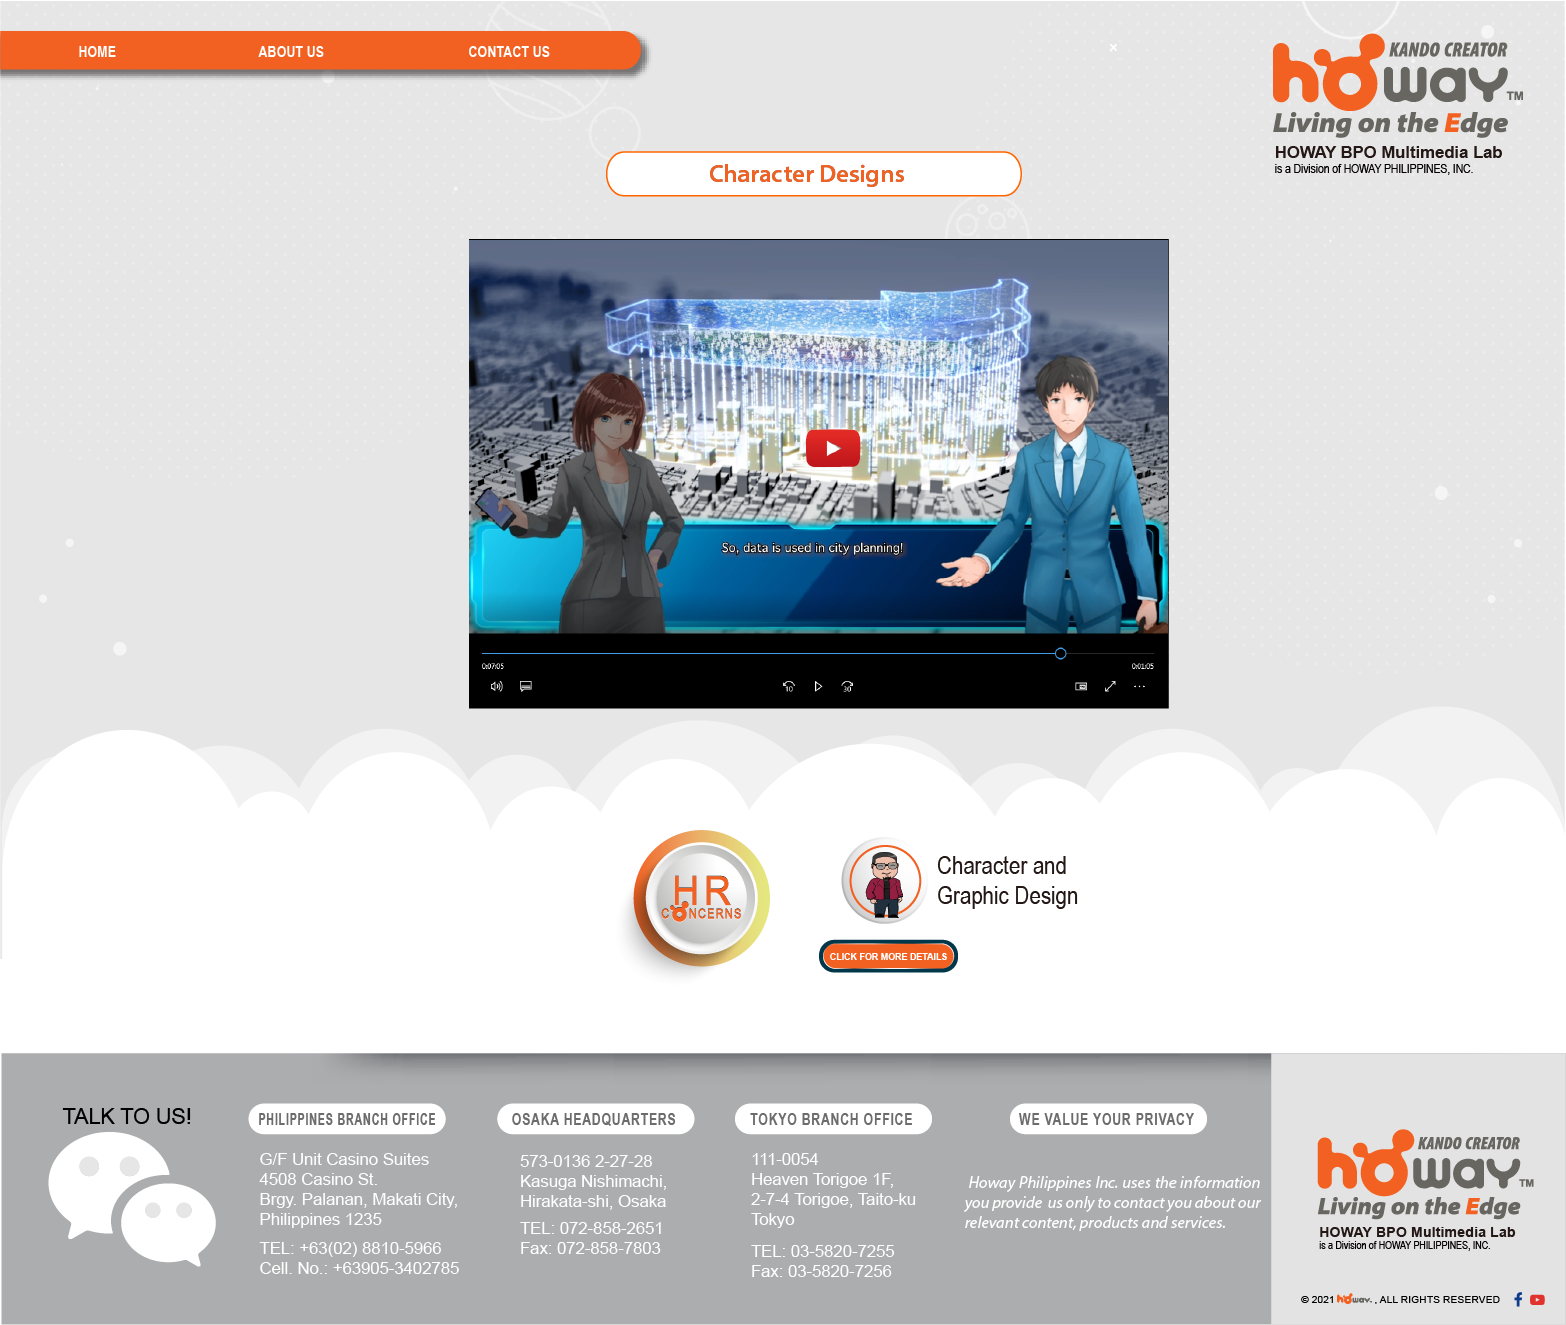
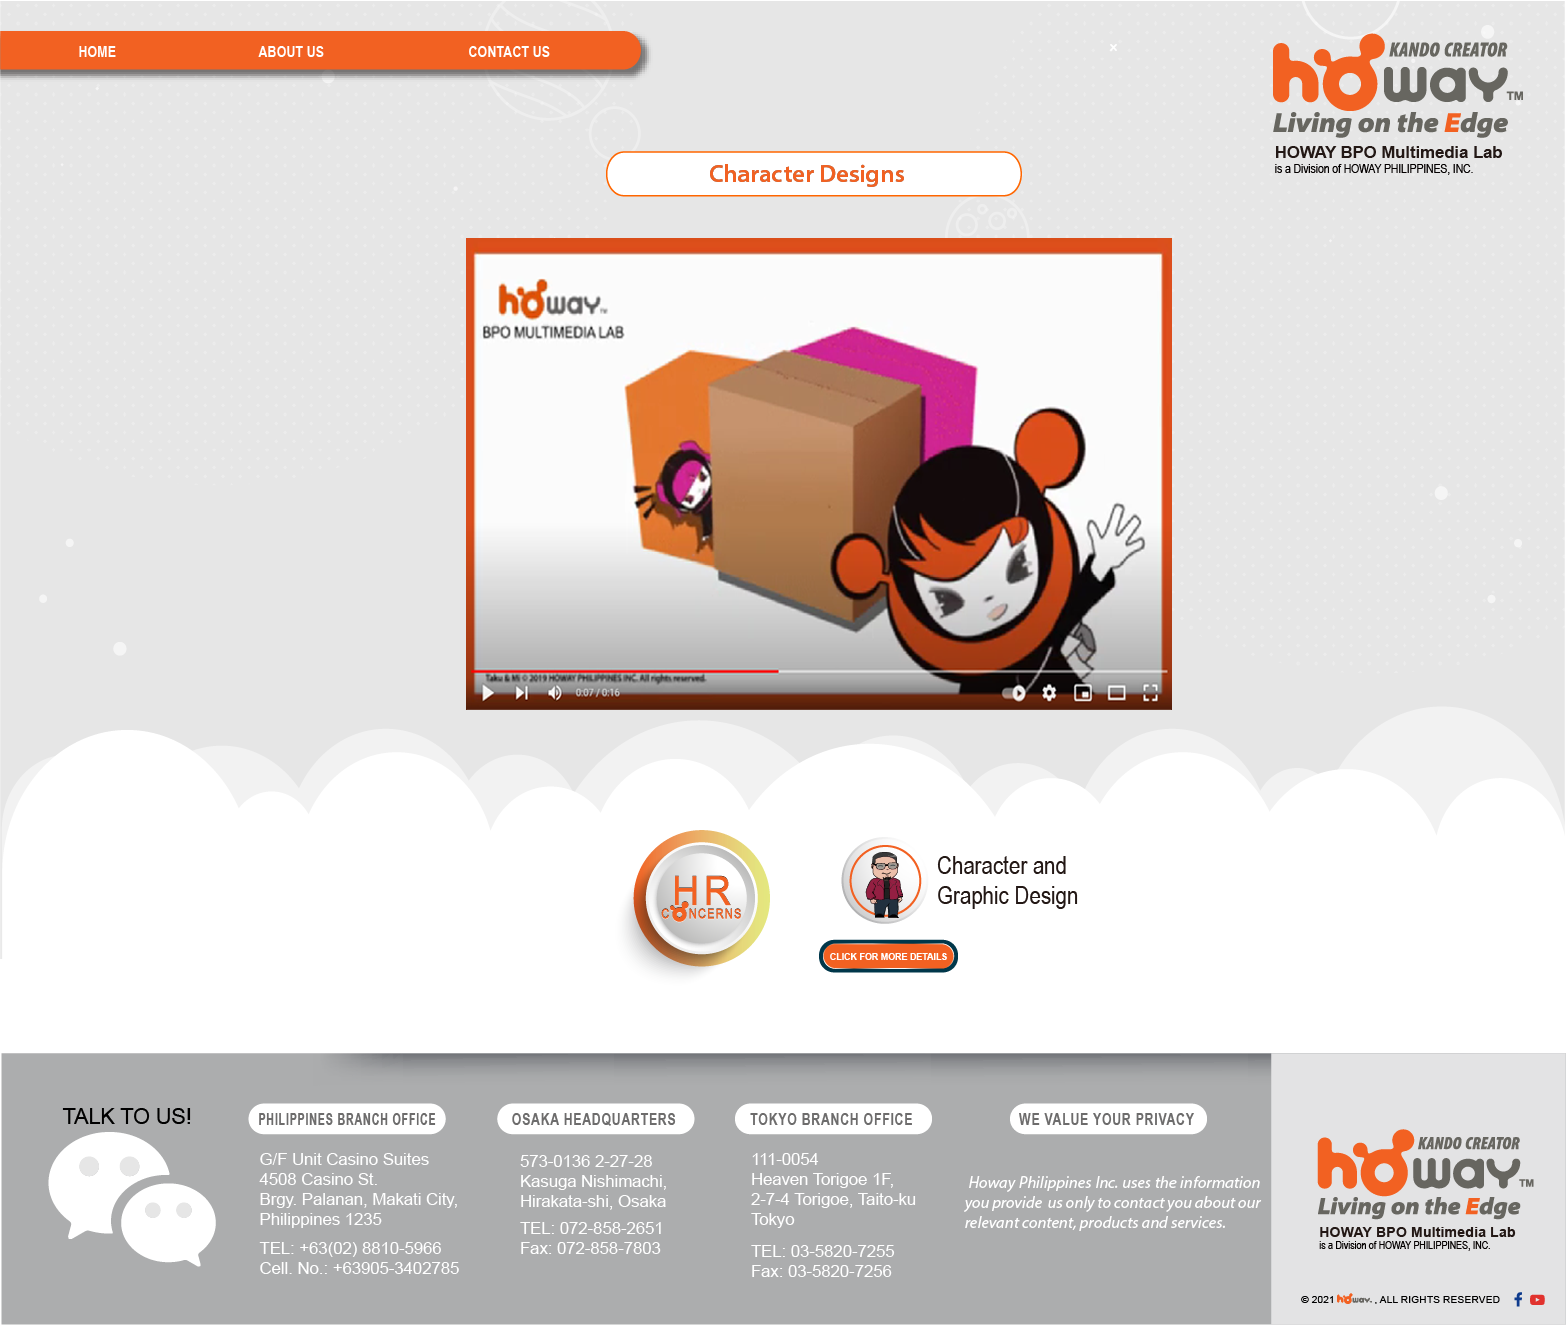
update

Changed region(s): [[0.2759, 0.1547, 0.7663, 0.557]]

diff --git a/vepSamples.html b/vepSamples.html
@@ -16,7 +16,7 @@
      <area shape="rect" coords="297,37,403,85" href="aboutus.html">
      <area shape="rect" coords="548,39,680,84" href="contactus.html">
      <area shape="rect" coords="1531,39,1842,215" href="index.html">
-     <area shape="rect" coords="656,295,1330,818" href="https://www.youtube.com/watch?v=pbA3FLm87Kk">
+     <area shape="rect" coords="652,295,1337,822" href="https://www.youtube.com/watch?v=O3RrU_s1jeE">
      <area shape="rect" coords="1587,1359,1855,1513" href="index.html">
      <area shape="rect" coords="1825,1554,1838,1576" href="https://www.facebook.com/HOWAY-BPO-Multi-media-Lab-100115955405460">
      <area shape="rect" coords="1843,1558,1868,1576" href="https://www.youtube.com/watch?v=2CSOstHwYz8">

diff --git a/cgdSamples.html b/cgdSamples.html
@@ -12,7 +12,7 @@
   <body>
    <img src="images/cgdsamples.png" alt="Howay Philippines" width="1888" usemap="#Map" style="background-repeat: no-repeat; align-self: center;">
    <map name="Map">
-     <area shape="rect" coords="566,287,1409,855" href="#">
+     <area shape="rect" coords="566,287,1409,855" href="https://www.youtube.com/watch?v=EH2D6zCddqA">
      <area shape="rect" coords="70,39,166,82" href="index.html">
      <area shape="rect" coords="290,38,403,84" href="aboutus.html">
      <area shape="rect" coords="553,38,672,84" href="contactus.html">
